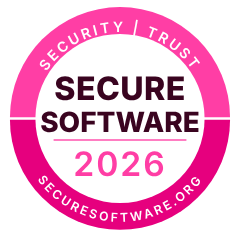
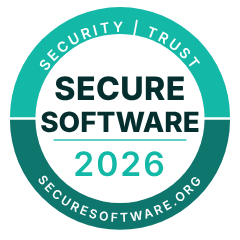
Teal palette
Claude-Session: https://claude.ai/code/session_01G6gvxkUtkH3PQ2kPFbRBNR

diff --git a/site.css b/site.css
@@ -1,15 +1,15 @@
 /* Secure Software — shared site styles.
-   Same layout system as securefunder.org / securebroker.org, with a pink palette. */
+   Same layout system as securefunder.org / securebroker.org, with a teal palette. */
 :root {
-  /* Neon / hot pinks, soft -> bright -> dark */
-  --pink-50: #FFF2F9; --pink-100: #FFE0F0; --pink-200: #FFC2E2; --pink-300: #FF8FCB;
-  --neon: #FF3EA5; --hot: #E6007E; --hot-deep: #C2006A;
-  --pink-900: #5A0632; --pink-950: #3A0420;
+  /* Teals, soft -> bright -> dark */
+  --teal-50: #F0FDFA; --teal-100: #D5FAF2; --teal-200: #A7F3E4; --teal-300: #5EEAD4;
+  --bright: #2DD4BF; --teal-500: #14B8A6;
+  --teal-700: #0F766E; --teal-800: #115E59; --teal-900: #134E4A; --teal-950: #042F2E;
 
-  --ink: var(--pink-950); --text: #4A2238; --muted: #8A5D74; --rule: #FFD3E9; --band: var(--pink-50); --paper: #FFFFFF;
-  --link: #CC0070; --accent: var(--hot); --accent-deep: var(--hot-deep); --dark: var(--hot);
-  --highlight: var(--neon); --tag: var(--pink-200);
-  --foot-text: var(--pink-200); --foot-head: var(--pink-300); --foot-link: #FFFFFF;
+  --ink: var(--teal-950); --text: #24423F; --muted: #5B7A76; --rule: #CDEDE7; --band: var(--teal-50); --paper: #FFFFFF;
+  --link: var(--teal-700); --accent: var(--teal-700); --accent-deep: var(--teal-800); --dark: var(--teal-700);
+  --highlight: var(--bright); --tag: var(--teal-200);
+  --foot-text: var(--teal-200); --foot-head: var(--teal-300); --foot-link: #FFFFFF;
   --serif: 'Source Serif 4', Georgia, 'Times New Roman', serif;
   --sans: 'Public Sans', 'Helvetica Neue', Arial, sans-serif;
   --wrap: 1160px;
@@ -32,7 +32,7 @@ h1, h2, h3 { font-family: var(--serif); color: var(--ink); font-weight: 500; mar
 .btn-quiet:hover { background: var(--ink); border-color: var(--ink); color: #fff; }
 
 /* Top line + nav */
-.topline { background: var(--neon); color: var(--ink); font-weight: 600; font-size: 13px; text-align: center; padding: 8px 16px; position: sticky; top: 0; z-index: 60; }
+.topline { background: var(--bright); color: var(--ink); font-weight: 600; font-size: 13px; text-align: center; padding: 8px 16px; position: sticky; top: 0; z-index: 60; }
 .nav { border-bottom: 1px solid var(--rule); background: var(--paper); position: sticky; top: 37px; z-index: 50; }
 .nav .wrap { display: flex; align-items: center; justify-content: space-between; height: 72px; gap: 24px; }
 .nav-logo { display: flex; align-items: center; gap: 10px; color: var(--ink); font-family: var(--sans); font-weight: 700; font-size: 19px; letter-spacing: -0.01em; white-space: nowrap; }
@@ -60,7 +60,7 @@ h1, h2, h3 { font-family: var(--serif); color: var(--ink); font-weight: 500; mar
 
 /* Sections */
 .section { padding: 88px 0; border-bottom: 1px solid var(--rule); }
-.section.dark { background: var(--hot); color: #FFE6F3; border-bottom: 0; }
+.section.dark { background: var(--teal-700); color: #E6FFFA; border-bottom: 0; }
 .section.dark h2, .section.dark strong { color: #fff; }
 .section.band { background: var(--band); }
 .section > .wrap { display: grid; grid-template-columns: minmax(0, 4fr) minmax(0, 8fr); gap: 64px; }
@@ -71,7 +71,7 @@ h1, h2, h3 { font-family: var(--serif); color: var(--ink); font-weight: 500; mar
 .body p:last-child { margin-bottom: 0; }
 .body strong { color: var(--ink); font-weight: 600; }
 .tag-new { display: inline-block; background: var(--tag); color: var(--ink); font-size: 12px; font-weight: 700; letter-spacing: .08em; text-transform: uppercase; line-height: 1; padding: 6px 9px; margin-bottom: 14px; }
-.soft-mark { background: rgba(255, 62, 165, .25); color: inherit; padding: 1px 4px; border-radius: 3px; }
+.soft-mark { background: rgba(45, 212, 191, .3); color: inherit; padding: 1px 4px; border-radius: 3px; }
 
 .lead { font-family: var(--serif); font-size: 24px; line-height: 1.45; color: var(--ink); margin: 0 0 28px; max-width: 30em; }
 
@@ -95,7 +95,7 @@ h1, h2, h3 { font-family: var(--serif); color: var(--ink); font-weight: 500; mar
 /* Compare (not a checklist) */
 .contrast { display: grid; grid-template-columns: repeat(2, minmax(0, 1fr)); gap: 16px; }
 .contrast > div { border: 1px solid var(--rule); padding: 22px 22px 24px; }
-.contrast .is { border-color: var(--neon); border-width: 2px; background: var(--pink-100); }
+.contrast .is { border-color: var(--bright); border-width: 2px; background: var(--teal-100); }
 .contrast h3 { font-family: var(--sans); font-size: 12px; font-weight: 700; letter-spacing: .1em; text-transform: uppercase; color: var(--muted); margin: 0 0 12px; }
 .contrast .is h3 { color: var(--accent); }
 .contrast ul { list-style: none; margin: 0; padding: 0; }
@@ -117,7 +117,7 @@ h1, h2, h3 { font-family: var(--serif); color: var(--ink); font-weight: 500; mar
 .linkbtn:hover { text-decoration: underline; text-underline-offset: 3px; }
 
 /* Closing band */
-.closing { padding: 96px 0; background: var(--neon); color: var(--ink); }
+.closing { padding: 96px 0; background: var(--bright); color: var(--ink); }
 .closing .wrap { display: flex; align-items: flex-end; justify-content: space-between; gap: 40px; flex-wrap: wrap; }
 .closing h2 { color: var(--ink); font-size: clamp(32px, 4vw, 44px); line-height: 1.1; max-width: 16em; }
 .closing p { margin: 14px 0 0; font-size: 16px; }
@@ -178,7 +178,7 @@ h1, h2, h3 { font-family: var(--serif); color: var(--ink); font-weight: 500; mar
 .notice { font-size: 14px; color: var(--muted); margin: 16px 0 0; }
 
 /* Footer */
-.site-foot { padding: 56px 0 48px; font-size: 14px; color: var(--foot-text); background: var(--pink-950); }
+.site-foot { padding: 56px 0 48px; font-size: 14px; color: var(--foot-text); background: var(--teal-950); }
 .site-foot .fob { --fob-rule: rgba(255,255,255,0.22); margin: 0 0 48px; }
 .site-foot .fob-title { margin: 0 0 6px; font-family: inherit; font-size: 17px; font-weight: 700; color: #fff; }
 .site-foot .fob-sub { margin: 0; max-width: none; font-size: 14px; color: var(--foot-text); }
@@ -194,14 +194,14 @@ h1, h2, h3 { font-family: var(--serif); color: var(--ink); font-weight: 500; mar
 .site-foot .foot-brand { font-family: var(--sans); font-weight: 700; font-size: 17px; color: #fff; margin: 0 0 10px; }
 .site-foot .foot-brand sup { font-size: 9px; font-weight: 500; }
 .site-foot p { margin: 0; max-width: 30em; line-height: 1.6; }
-.site-foot h4 { margin: 0 0 12px; font-size: 12px; font-weight: 600; letter-spacing: .08em; text-transform: uppercase; color: var(--neon); }
+.site-foot h4 { margin: 0 0 12px; font-size: 12px; font-weight: 600; letter-spacing: .08em; text-transform: uppercase; color: var(--bright); }
 .site-foot a { color: var(--foot-link); }
 .site-foot a:hover { color: #fff; }
 .site-foot .foot-col a { display: block; padding: 3px 0; }
 .site-foot .foot-bottom { margin-top: 44px; padding-top: 20px; border-top: 1px solid rgba(255,255,255,.22); display: flex; justify-content: space-between; gap: 24px; flex-wrap: wrap; }
 
 /* Bio modal */
-.bio-overlay { position: fixed; inset: 0; z-index: 100; background: rgba(63,8,32,.5); display: none; align-items: center; justify-content: center; padding: 24px; }
+.bio-overlay { position: fixed; inset: 0; z-index: 100; background: rgba(4,47,46,.5); display: none; align-items: center; justify-content: center; padding: 24px; }
 .bio-overlay.active { display: flex; }
 .bio-box { position: relative; background: #fff; max-width: 620px; width: 100%; padding: 44px 40px 36px; border: 1px solid var(--rule); max-height: 90vh; overflow: auto; }
 .bio-box h3 { font-size: 24px; margin-bottom: 18px; }

diff --git a/how-it-works/index.html b/how-it-works/index.html
@@ -10,8 +10,8 @@
 <meta property="og:type" content="website">
 <meta property="og:url" content="https://securesoftware.org/how-it-works/">
 <meta property="og:image" content="https://securesoftware.org/og-blank.png">
-<link rel="icon" type="image/png" sizes="32x32" href="../pink-rings.png">
-<link rel="apple-touch-icon" sizes="180x180" href="../pink-rings.png">
+<link rel="icon" type="image/png" sizes="32x32" href="../teal-rings.png">
+<link rel="apple-touch-icon" sizes="180x180" href="../teal-rings.png">
 <link rel="preconnect" href="https://fonts.googleapis.com">
 <link rel="preconnect" href="https://fonts.gstatic.com" crossorigin>
 <link href="https://fonts.googleapis.com/css2?family=Public+Sans:wght@400;500;600;700&family=Source+Serif+4:opsz,wght@8..60,400;8..60,500;8..60,600;8..60,700&display=swap" rel="stylesheet">
@@ -23,7 +23,7 @@
 
 <header class="nav">
   <div class="wrap">
-    <a class="nav-logo" href="../" aria-label="Secure Software home"><img src="../pink-rings.png" alt=""><span>Secure Software<sup>&trade;</sup></span></a>
+    <a class="nav-logo" href="../" aria-label="Secure Software home"><img src="../teal-rings.png" alt=""><span>Secure Software<sup>&trade;</sup></span></a>
     <nav class="nav-links" aria-label="Primary">
       <a href="https://securebroker.org" target="_blank" rel="noopener noreferrer">For Brokers</a>
       <a href="https://securefunder.org" target="_blank" rel="noopener noreferrer">For Funders</a>

diff --git a/directory/index.html b/directory/index.html
@@ -10,8 +10,8 @@
 <meta property="og:type" content="website">
 <meta property="og:url" content="https://securesoftware.org/directory/">
 <meta property="og:image" content="https://securesoftware.org/og-blank.png">
-<link rel="icon" type="image/png" sizes="32x32" href="../pink-rings.png">
-<link rel="apple-touch-icon" sizes="180x180" href="../pink-rings.png">
+<link rel="icon" type="image/png" sizes="32x32" href="../teal-rings.png">
+<link rel="apple-touch-icon" sizes="180x180" href="../teal-rings.png">
 <link rel="preconnect" href="https://fonts.googleapis.com">
 <link rel="preconnect" href="https://fonts.gstatic.com" crossorigin>
 <link href="https://fonts.googleapis.com/css2?family=Public+Sans:wght@400;500;600;700&family=Source+Serif+4:opsz,wght@8..60,400;8..60,500;8..60,600;8..60,700&display=swap" rel="stylesheet">
@@ -23,7 +23,7 @@
 
 <header class="nav">
   <div class="wrap">
-    <a class="nav-logo" href="../" aria-label="Secure Software home"><img src="../pink-rings.png" alt=""><span>Secure Software<sup>&trade;</sup></span></a>
+    <a class="nav-logo" href="../" aria-label="Secure Software home"><img src="../teal-rings.png" alt=""><span>Secure Software<sup>&trade;</sup></span></a>
     <nav class="nav-links" aria-label="Primary">
       <a href="https://securebroker.org" target="_blank" rel="noopener noreferrer">For Brokers</a>
       <a href="https://securefunder.org" target="_blank" rel="noopener noreferrer">For Funders</a>

diff --git a/contact/index.html b/contact/index.html
@@ -10,8 +10,8 @@
 <meta property="og:type" content="website">
 <meta property="og:url" content="https://securesoftware.org/contact/">
 <meta property="og:image" content="https://securesoftware.org/og-blank.png">
-<link rel="icon" type="image/png" sizes="32x32" href="../pink-rings.png">
-<link rel="apple-touch-icon" sizes="180x180" href="../pink-rings.png">
+<link rel="icon" type="image/png" sizes="32x32" href="../teal-rings.png">
+<link rel="apple-touch-icon" sizes="180x180" href="../teal-rings.png">
 <link rel="preconnect" href="https://fonts.googleapis.com">
 <link rel="preconnect" href="https://fonts.gstatic.com" crossorigin>
 <link href="https://fonts.googleapis.com/css2?family=Public+Sans:wght@400;500;600;700&family=Source+Serif+4:opsz,wght@8..60,400;8..60,500;8..60,600;8..60,700&display=swap" rel="stylesheet">
@@ -23,7 +23,7 @@
 
 <header class="nav">
   <div class="wrap">
-    <a class="nav-logo" href="../" aria-label="Secure Software home"><img src="../pink-rings.png" alt=""><span>Secure Software<sup>&trade;</sup></span></a>
+    <a class="nav-logo" href="../" aria-label="Secure Software home"><img src="../teal-rings.png" alt=""><span>Secure Software<sup>&trade;</sup></span></a>
     <nav class="nav-links" aria-label="Primary">
       <a href="https://securebroker.org" target="_blank" rel="noopener noreferrer">For Brokers</a>
       <a href="https://securefunder.org" target="_blank" rel="noopener noreferrer">For Funders</a>

diff --git a/join/index.html b/join/index.html
@@ -10,8 +10,8 @@
 <meta property="og:type" content="website">
 <meta property="og:url" content="https://securesoftware.org/join/">
 <meta property="og:image" content="https://securesoftware.org/og-blank.png">
-<link rel="icon" type="image/png" sizes="32x32" href="../pink-rings.png">
-<link rel="apple-touch-icon" sizes="180x180" href="../pink-rings.png">
+<link rel="icon" type="image/png" sizes="32x32" href="../teal-rings.png">
+<link rel="apple-touch-icon" sizes="180x180" href="../teal-rings.png">
 <link rel="preconnect" href="https://fonts.googleapis.com">
 <link rel="preconnect" href="https://fonts.gstatic.com" crossorigin>
 <link href="https://fonts.googleapis.com/css2?family=Public+Sans:wght@400;500;600;700&family=Source+Serif+4:opsz,wght@8..60,400;8..60,500;8..60,600;8..60,700&display=swap" rel="stylesheet">
@@ -23,7 +23,7 @@
 
 <header class="nav">
   <div class="wrap">
-    <a class="nav-logo" href="../" aria-label="Secure Software home"><img src="../pink-rings.png" alt=""><span>Secure Software<sup>&trade;</sup></span></a>
+    <a class="nav-logo" href="../" aria-label="Secure Software home"><img src="../teal-rings.png" alt=""><span>Secure Software<sup>&trade;</sup></span></a>
     <nav class="nav-links" aria-label="Primary">
       <a href="https://securebroker.org" target="_blank" rel="noopener noreferrer">For Brokers</a>
       <a href="https://securefunder.org" target="_blank" rel="noopener noreferrer">For Funders</a>

diff --git a/index.html b/index.html
@@ -10,8 +10,8 @@
 <meta property="og:type" content="website">
 <meta property="og:url" content="https://securesoftware.org/">
 <meta property="og:image" content="https://securesoftware.org/og-blank.png">
-<link rel="icon" type="image/png" sizes="32x32" href="pink-rings.png">
-<link rel="apple-touch-icon" sizes="180x180" href="pink-rings.png">
+<link rel="icon" type="image/png" sizes="32x32" href="teal-rings.png">
+<link rel="apple-touch-icon" sizes="180x180" href="teal-rings.png">
 <link rel="preconnect" href="https://fonts.googleapis.com">
 <link rel="preconnect" href="https://fonts.gstatic.com" crossorigin>
 <link href="https://fonts.googleapis.com/css2?family=Public+Sans:wght@400;500;600;700&family=Source+Serif+4:opsz,wght@8..60,400;8..60,500;8..60,600;8..60,700&display=swap" rel="stylesheet">
@@ -23,7 +23,7 @@
 
 <header class="nav">
   <div class="wrap">
-    <a class="nav-logo" href="./" aria-label="Secure Software home"><img src="pink-rings.png" alt=""><span>Secure Software<sup>&trade;</sup></span></a>
+    <a class="nav-logo" href="./" aria-label="Secure Software home"><img src="teal-rings.png" alt=""><span>Secure Software<sup>&trade;</sup></span></a>
     <nav class="nav-links" aria-label="Primary">
       <a href="https://securebroker.org" target="_blank" rel="noopener noreferrer">For Brokers</a>
       <a href="https://securefunder.org" target="_blank" rel="noopener noreferrer">For Funders</a>

diff --git a/README.md b/README.md
@@ -1,7 +1,7 @@
 # secure-software-site
 
-Static site for Secure Software™ (securesoftware.org), the software certification in the Secure Broker / Secure Funder family. Same layout system as those sites, with an neon pink palette.
+Static site for Secure Software™ (securesoftware.org), the software certification in the Secure Broker / Secure Funder family. Same layout system as those sites, with a teal palette.
 
 - `site.css`: shared styles; colors are the tokens at the top.
 - Pages: `/`, `/how-it-works/`, `/join/`, `/contact/`, `/directory/`.
-- `src/badge.svg`, `src/rings.svg`: sources for the badge and logo. Re-render the PNGs with `node src/render.js '[["src/badge.svg","secure-software-badge-2026.png",1254],["src/badge.svg","family-of-brands/secure-software-badge.png",240],["src/rings.svg","pink-rings.png",500]]'`.
+- `src/badge.svg`, `src/rings.svg`: sources for the badge and logo. Re-render the PNGs with `node src/render.js '[["src/badge.svg","secure-software-badge-2026.png",1254],["src/badge.svg","family-of-brands/secure-software-badge.png",240],["src/rings.svg","teal-rings.png",500]]'`.
